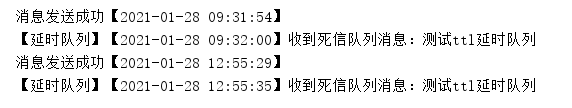
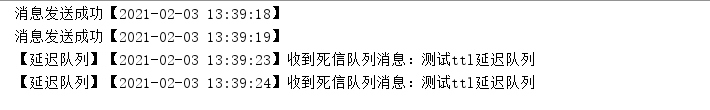
RabbitMQ博客3

diff --git a/docs/mq/rabbitmq/如何用RabbitMQ实现延迟队列.md b/docs/mq/rabbitmq/如何用RabbitMQ实现延迟队列.md
@@ -1,0 +1,240 @@
+[TOC]
+
+
+
+# 前言
+
+在 `jdk` 的 `juc` 工具包中，提供了一种延迟队列 `DelayQueue`。延迟队列用处非常广泛，比如我们最常见的场景就是在网购或者外卖平台中发起一个订单，如果不付款，一般 `15` 分钟后就会被关闭，这个直接用定时任务是不好实现的，因为每个用户下单的时间并不确定，所以这时候就需要用到延迟队列。
+
+# 什么是延迟队列
+
+延迟队列本身也是队列，只不过这个队列是延迟的，意思就是说当我们把一条消息放入延迟队列，消息并不会立刻出队，而是会在到达指定时间之后（或者说过了指定时间）才会出队，从而被消费者消费。
+
+## 利用死信队列实现延迟队列
+
+`RabbitMQ` 中的死信队列就是用来存储特定条件下的消息，那么假如我们把这个条件设定为指定时间过期（设定带`TTL` 的消息或者队列），就可以用来实现延迟队列的功能。
+
+1. 新建一个 `TtlDelayRabbitConfig` 配置类（省略了包名和导入），消息最开始发送至 `ttl` 消息队列，这个队列中所有的消息在 `5` 秒后过期，后期后会进入死信队列：
+
+```java
+@Configuration
+public class TtlDelayRabbitConfig {
+
+    //路由ttl消息交换机
+    @Bean("ttlDelayFanoutExchange")
+    public FanoutExchange fanoutExchange(){
+        return new FanoutExchange("TTL_DELAY_FANOUT_EXCHANGE");
+    }
+
+    //ttl消息队列
+    @Bean("ttlDelayQueue")
+    public Queue ttlQueue(){
+        Map<String, Object> map = new HashMap<String, Object>();
+        map.put("x-message-ttl", 5000);//队列中所有消息5秒后过期
+        map.put("x-dead-letter-exchange", "TTL_DELAY_DEAD_LETTER_FANOUT_EXCHANGE");//过期后进入死信队列
+        return new Queue("TTL_QUEUE",false,false,false,map);
+    }
+
+    //Fanout交换机和productQueue绑定
+    @Bean
+    public Binding bindTtlFanoutExchange(@Qualifier("ttlDelayQueue") Queue queue, @Qualifier("ttlDelayFanoutExchange") FanoutExchange fanoutExchange){
+        return BindingBuilder.bind(queue).to(fanoutExchange);
+    }
+
+    //fanout死信交换机
+    @Bean("ttlDelayDeadLetterExchange")
+    public FanoutExchange deadLetterExchange(){
+        return new FanoutExchange("TTL_DELAY_DEAD_LETTER_FANOUT_EXCHANGE");
+    }
+
+    //死信队列
+    @Bean("ttlDelayDeadLetterQueue")
+    public Queue ttlDelayDeadLetterQueue(){
+        return new Queue("TTL_DELAY_DEAD_LETTER_FANOUT_QUEUE");
+    }
+
+    //死信队列和死信交换机绑定
+    @Bean
+    public Binding deadLetterQueueBindExchange(@Qualifier("ttlDelayDeadLetterQueue") Queue queue, @Qualifier("ttlDelayDeadLetterExchange") FanoutExchange fanoutExchange){
+        return BindingBuilder.bind(queue).to(fanoutExchange);
+    }
+}
+
+```
+
+2. 新建一个消费者 `TtlDelayConsumer` 类，监听死信队列，这里收到的消息都是生产者生产消息之后的 `5` 秒，也就是延迟了 `5` 秒的消息：
+
+```java
+@Component
+public class TtlDelayConsumer {
+
+    @RabbitHandler
+    @RabbitListener(queues = "TTL_DELAY_DEAD_LETTER_FANOUT_QUEUE")
+    public void fanoutConsumer(String msg){
+        SimpleDateFormat sdf = new SimpleDateFormat("yyyy-MM-dd HH:mm:ss");
+        System.out.println("【延迟队列】【" + sdf.format(new Date()) + "】收到死信队列消息：" + msg);
+    }
+}
+```
+
+3. 新建一个 `DelayQueueController` 类做生产者来发送消息：
+
+```java
+@RestController
+@RequestMapping("/delay")
+public class DelayQueueController {
+    @Autowired
+    private RabbitTemplate rabbitTemplate;
+
+    @GetMapping(value="/ttl/send")
+    public String clearVipInfo(@RequestParam(value = "msg",defaultValue = "no message") String msg){
+        rabbitTemplate.convertAndSend("TTL_DELAY_FANOUT_EXCHANGE","",msg);
+        SimpleDateFormat sdf = new SimpleDateFormat("yyyy-MM-dd HH:mm:ss");
+        System.out.println("消息发送成功【" + sdf.format(new Date()) + "】");
+        return "succ";
+    }
+}
+```
+
+4. 最后我们在浏览器输入地址 `http://localhost:8080/delay/ttl/send?msg=测试ttl延迟队列` 进行测试，可以看到每条消息都是在发送 `5` 秒之后才能收到消息：
+
+![](image/3/delay-ttl-message.png)
+
+### TTL 延迟队列的问题
+
+假如我们实际中，有的消息是 `10` 分钟过期，有的是 `20` 分钟过期，这时候我们就需要建立多个队列，一旦时间维度非常庞大，那么就需要维护非常多的队列。说到这里，可能很多人会有疑问，我们可以针对单条信息设置过期时间，大可不必去定义多个队列？
+
+然而事实真的是如此吗？接下来我们通过一个例子来验证下。
+
+1. 把示例中 `TtlDelayRabbitConfig` 类中的队列定义函数 `x-message-ttl` 属性去掉，不过需要注意的是我们需要先把这个队列后台删除掉，否则同名队列重复创建无效：
+
+```java
+@Bean("ttlDelayQueue")
+public Queue ttlQueue(){
+    Map<String, Object> map = new HashMap<String, Object>();
+    //        map.put("x-message-ttl", 5000);//注释掉这个属性，队列不设置过期时间
+    map.put("x-dead-letter-exchange", "TTL_DELAY_DEAD_LETTER_FANOUT_EXCHANGE");//过期后进入死信队列
+    return new Queue("TTL_QUEUE",false,false,false,map);
+}
+```
+
+2. 然后将 `DelayQueueController` 类中的发送消息方法修改一下，对每条信息设置过期时间：
+
+```java
+@GetMapping(value="/ttl/send")
+    public String ttlMsgSend(@RequestParam(value = "msg",defaultValue = "no message") String msg,
+                             @RequestParam(value = "time") String millTimes){
+        MessageProperties messageProperties = new MessageProperties();
+        messageProperties.setExpiration(millTimes);//单条消息设置过期时间，单位：毫秒
+        Message message = new Message(msg.getBytes(), messageProperties);
+        rabbitTemplate.convertAndSend("TTL_DELAY_FANOUT_EXCHANGE","",message);
+        SimpleDateFormat sdf = new SimpleDateFormat("yyyy-MM-dd HH:mm:ss");
+        System.out.println("消息发送成功【" + sdf.format(new Date()) + "】");
+        return "succ";
+    }
+```
+
+3. 然后执行 `2` 条消息发送，一条 `10` 秒过期，一条 `5` 秒过期，先发送 `10` 秒的：
+
+```java
+http://localhost:8080/delay/ttl/send?msg=10秒过期消息&time=10000
+http://localhost:8080/delay/ttl/send?msg=5秒过期消息&time=5000
+```
+
+4. 执行之后得到如下结果：
+
+![](image/3/delay-ttl-message-issue.png)
+
+我们看到，两条消息都是 `10` 秒后过期，这是巧合吗？并不是，这是因为 `RabbitMQ` 中的机制就是如果前一条消息没有出队，那么即使后一条消息已经失效，也必须要等前一条消息出队之后才能出队，所以这就是为什么一般都尽量避免同一个队列单条消息设置不同过期时间的做法。
+
+### 死信队列实现的延迟队列缺点
+
+通过以上两个例子，使用死信队列来实现延迟队列，我们可以得到几个很明显的缺点：
+
+- 如果有非常多的时间点（比如有的 `10` 分钟过期，有的 `20` 分钟过期等），则需要创建不同的交换机和队列来实现消息的路由。
+- 单独设置消息的 `TTL` 时可能会造成消息的阻塞。因为当前一条消息没有出队，后一条消息即使到期了也不能出队。
+- 消息可能会有一定的延迟（上面的示例中就可以看到有一点延迟）。
+
+为了避免 `TTL` 和死信队列可能造成的问题，所以就非常有必要用一种新的更好的方案来替代实现延迟队列，这就是延时队列插件。
+
+## 利用插件实现延迟队列
+
+在 `RabbitMQ` 的 `3.5.7` 版本之后，提供了一个插件（`rabbitmq-delayed-message-exchange`）来实现延迟队列 ，同时需保证 `Erlang/OPT` 版本为 `18.0` 之后。
+
+### 安装延迟队列插件
+
+1. `RabbitMQ`版本在 `3.5.7-3.7.x` 的可以执行以下命令进行下载（也可以直接通过浏览器下载）：
+
+```java
+wget https://bintray.com/rabbitmq/community-plugins/download_file?file_path=rabbitmq_delayed_message_exchange-0.0.1.ez
+```
+
+如果 `RabbitMQ` 是 `3.8` 之后的版本，可以[点击这里](https://www.rabbitmq.com/community-plugins.html)，找到延迟队列对应版本的插件，然后下载。
+
+2. 下载好之后，将插件上传到 `plugins` 目录下，执行 `rabbitmq-plugins enable rabbitmq_delayed_message_exchange` 命令启动插件。如果要禁止该插件，则可以执行命令 `rabbitmq-plugins disable rabbitmq_delayed_message_exchange`（启用插件后需要重启 `RabbitMQ` 才会生效）。
+
+### 延迟队列插件示例
+
+1. 新建一个 `PluginDelayRabbitConfig` 配置类：
+
+```java
+@Configuration
+public class PluginDelayRabbitConfig {
+    @Bean("pluginDelayExchange")
+    public CustomExchange pluginDelayExchange() {
+        Map<String, Object> argMap = new HashMap<>();
+        argMap.put("x-delayed-type", "direct");//必须要配置这个类型，可以是direct,topic和fanout
+        //第二个参数必须为x-delayed-message
+        return new CustomExchange("PLUGIN_DELAY_EXCHANGE","x-delayed-message",false, false, argMap);
+    }
+
+    @Bean("pluginDelayQueue")
+    public Queue pluginDelayQueue(){
+        return new Queue("PLUGIN_DELAY_QUEUE");
+    }
+
+    @Bean
+    public Binding pluginDelayBinding(@Qualifier("pluginDelayQueue") Queue queue,@Qualifier("pluginDelayExchange") CustomExchange customExchange){
+        return BindingBuilder.bind(queue).to(customExchange).with("delay").noargs();
+    }
+}
+```
+
+2. 新建一个消费者类 `PluginDelayConsumer`：
+
+```java
+@Component
+public class PluginDelayConsumer {
+
+    @RabbitHandler
+    @RabbitListener(queues = "PLUGIN_DELAY_QUEUE")//监听延时队列
+    public void fanoutConsumer(String msg){
+        SimpleDateFormat sdf = new SimpleDateFormat("yyyy-MM-dd HH:mm:ss");
+        System.out.println("【插件延迟队列】【" + sdf.format(new Date()) + "】收到消息：" + msg);
+    }
+}
+```
+
+3. 在上面示例中的 `DelayQueueController` 类，新增一个方法：
+
+```java
+@GetMapping(value="/plugin/send")
+public String pluginMsgSend(@RequestParam(value = "msg",defaultValue = "no message") String msg){
+    MessageProperties messageProperties = new MessageProperties();
+    messageProperties.setHeader("x-delay",5000);//延迟5秒被删除
+    Message message = new Message(msg.getBytes(), messageProperties);
+    amqpTemplate.convertAndSend("PLUGIN_DELAY_EXCHANGE","delay",message);//交换机和路由键必须和配置文件类中保持一致
+    SimpleDateFormat sdf = new SimpleDateFormat("yyyy-MM-dd HH:mm:ss");
+    System.out.println("消息发送成功【" + sdf.format(new Date()) + "】");
+    return "succ";
+}
+```
+
+4. 接下来就可以访问地址 `http://localhost:8080/delay/plugin/send?msg=插件延迟队列消息` 进行测试，可以看到，消息在延时 `5` 秒之后被消费：
+
+![](image/3/delay-plugin-message.png)
+
+# 总结
+
+延迟队列的使用非常广泛，如果是单机部署，可以考虑使用 `jdk` 自带的 `DelayQueue`，分布式部署可以采用 `RabbitMQ`，`Redis` 等中间件来实现延迟队列。本文主要介绍了如何利用 `RabbitMQ` 实现两种延迟队列的两种方案，当然本文的例子只是引导，并没有开启回调等消息确认模式，如果想了解 `RabbitMQ` 消息的可靠性传输的，可以[点击这里](https://zhouwenxing.github.io/mq/rabbitmq/如何用RabbitMQ实现延迟队列)。
+

diff --git a/docs/mq/rabbitmq/RabbitMQ，想说爱你不容易(附详细安装教程).md b/docs/mq/rabbitmq/RabbitMQ，想说爱你不容易(附详细安装教程).md
@@ -155,9 +155,9 @@ source /etc/profile //实时生效
 7. 如果没有报错则说明启动成功，启动之后默认会创建一个 `guest/guest` 账户，只能本地连接，所以还需要再重新创建一个用户，并给新用户授权（当然，我们也可以直接给 `guest` 用户授权）：
 
 ```java
-./rabbitmqctl add_user admin 123456   //创建用户admin
-./rabbitmqctl set_user_tags admin administrator  //添加标签
-./rabbitmqctl set_permissions -p / admin ".*" ".*" ".*"  //授权
+/usr/local/rabbitmq_server-3.8.4/sbin/./rabbitmqctl add_user admin 123456   //创建用户admin
+/usr/local/rabbitmq_server-3.8.4/sbin/./rabbitmqctl set_user_tags admin administrator  //添加标签
+/usr/local/rabbitmq_server-3.8.4/sbin/./rabbitmqctl set_permissions -p / admin ".*" ".*" ".*"  //授权
 ```
 
 8. `RabbitMQ` 默认还提供了可视化管理界面，需要手动开启一下，默认端口为 `15672`：
@@ -360,7 +360,7 @@ public class HelloRabbitController {
     private RabbitTemplate rabbitTemplate;
 
     @GetMapping(value="/send")
-    public String clearVipInfo(@RequestParam(value = "msg",defaultValue = "no message") String msg){
+    public String helloSend(@RequestParam(value = "msg",defaultValue = "no message") String msg){
         rabbitTemplate.convertAndSend("SIMPLE_QUEUE",msg);
         return "succ";
     }

diff --git a/docs/redis/同一份数据，Redis为什么要存两次.md b/docs/redis/同一份数据，Redis为什么要存两次.md
@@ -119,12 +119,14 @@ object encoding name //查看编码
 `Redis` 中的有序集合和集合的区别是有序集合中的每个元素都会关联一个 `double` 类型的分数，然后按照分数从小到大的顺序进行排列。换句话说，有序集合的顺序是由我们自己设值的时候通过分数来确定的。
 
 有序集合对象的底层数据结构有两种：`skiplist` 和 `ziplist`。内部同样是通过编码来进行区分：
+
 | 编码属性              | 描述                           | object encoding命令返回值 |
 | --------------------- | ------------------------------ | ------------------------- |
 | OBJ_ENCODING_SKIPLIST | 使用跳跃表实现的有序集合对象   | skiplist                  |
 | OBJ_ENCODING_ZIPLIST  | 使用压缩列表实现的有序集合对象 | ziplist                   |
 
 ## skiplist 编码
+
 `skiplist` 即跳跃表，有时候也简称为跳表。使用 `skiplist` 编码的有序集合对象使用了 `zset` 结构来作为底层实现，而`zset` 中同时包含了一个字典和一个跳跃表。
 
 ### 跳跃表

diff --git a/docs/redis/内存耗尽后Redis会发生什么.md b/docs/redis/内存耗尽后Redis会发生什么.md
@@ -58,7 +58,7 @@ maxmemory <bytes>
 | volatile-ttl    | 根据键值对象的 ttl 属性， 删除最近将要过期数据。 如果没有，则直接报错 |
 | noeviction      | 默认策略，不作任何处理，直接报错                             |
 
-PS：淘汰策略也可以直接使用命令 `config set maxmemory-policy <策略>` 来进行动态删除。
+PS：淘汰策略也可以直接使用命令 `config set maxmemory-policy <策略>` 来进行动态配置。
 
 ## LRU 算法
 `LRU` 全称为：`Least Recently Used`。即：最近最长时间未被使用。这个主要针对的是使用时间。

diff --git a/docs/index.md b/docs/index.md
@@ -20,6 +20,7 @@ GitHub会陆续整理记录日常总结，欢迎 [**Star**](https://github.com/z
 ## RabbitMQ系列
 1. [RabbitMQ，想说爱你不容易](https://zhouwenxing.github.io/mq/rabbitmq/RabbitMQ，想说爱你不容易(附详细安装教程))
 2. [RabbitMQ不讲武德，发个消息也这么多花招](https://zhouwenxing.github.io/mq/rabbitmq/RabbitMQ不讲武德，发个消息也这么多花招)
+3. [如何用RabbitMQ实现延迟队列](https://zhouwenxing.github.io/mq/rabbitmq/如何用RabbitMQ实现延迟队列)
 
 # Redis系列
 

diff --git a/docs/mq/rabbitmq/高可用RabbitMQ集群的搭建及原理分析.md b/docs/mq/rabbitmq/高可用RabbitMQ集群的搭建及原理分析.md
@@ -1,0 +1,9 @@
+# 前言
+
+
+
+# 集群的搭建
+
+
+
+# 总结
